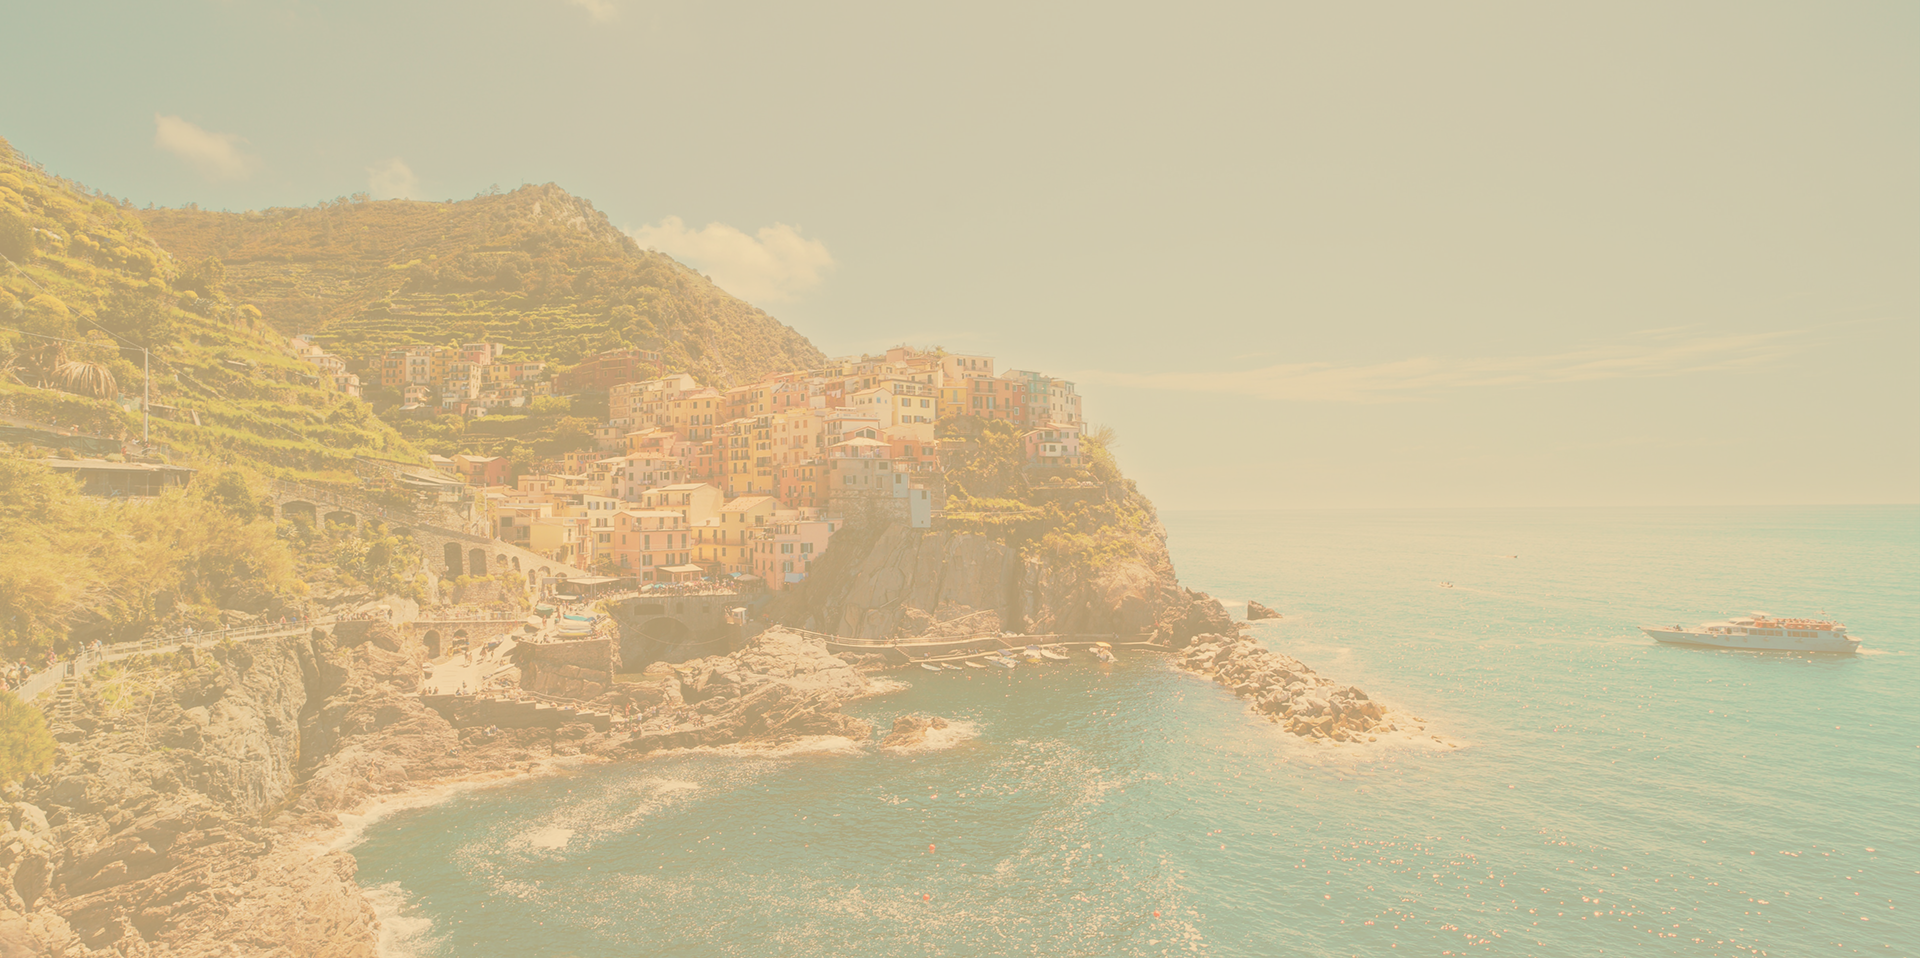
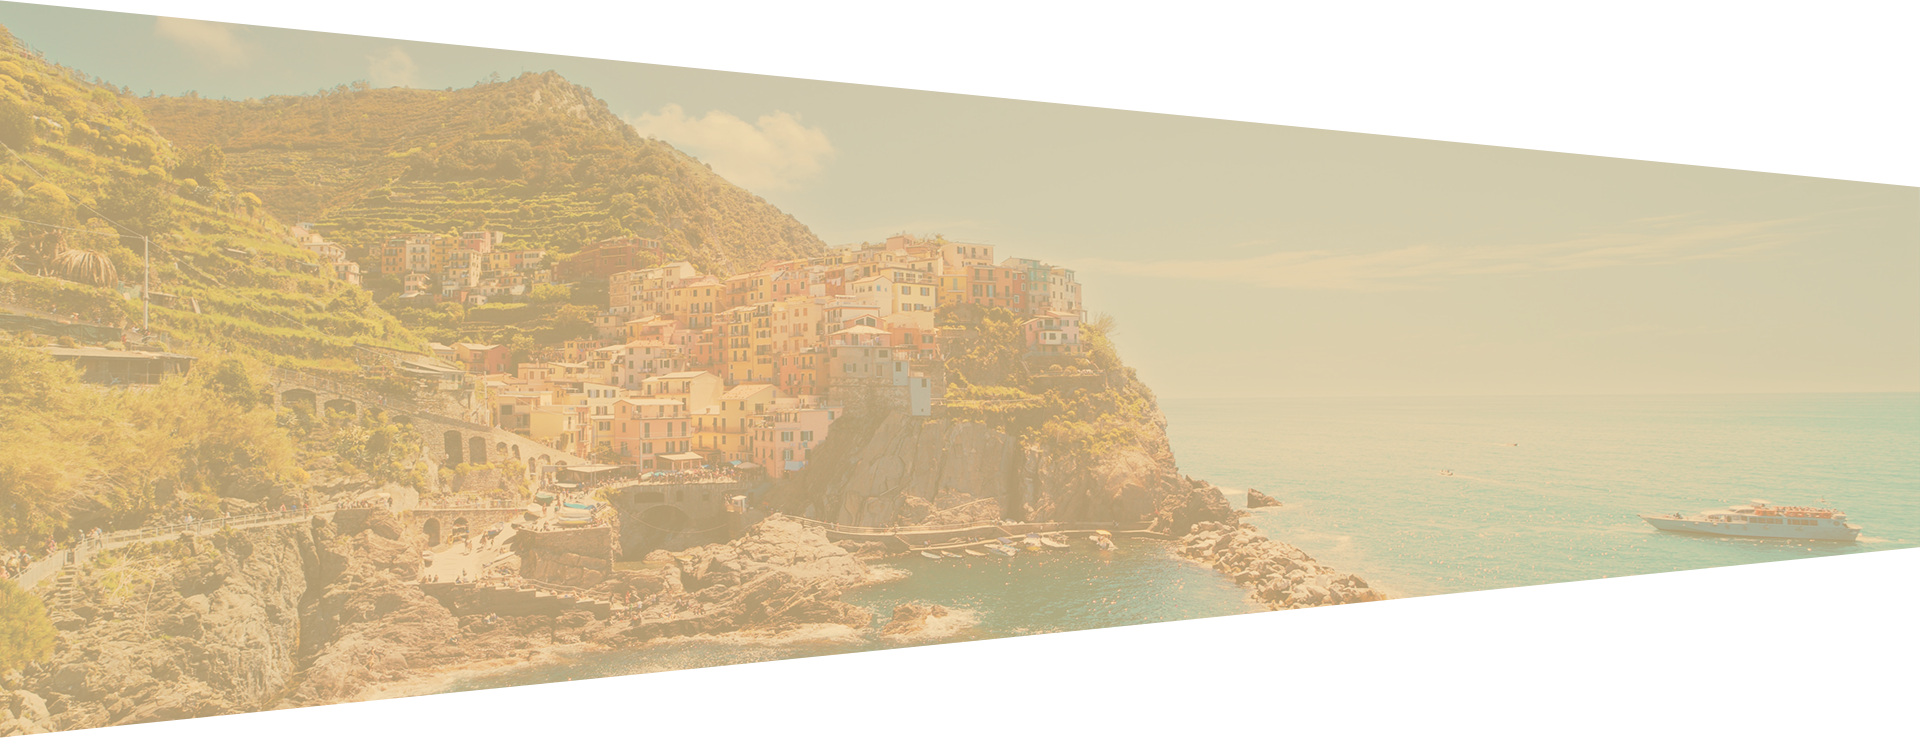
Aggiornata immagine
impaginazione sistemata con altezze in vh

diff --git a/index.html b/index.html
@@ -51,24 +51,26 @@
 
     <!-- Immagine e scritta di copertina -->
     <div class="copertina cont">
-        <a href="#ancora">
-            <div class="testi">
-                <div class="sottotitolo">Scopri la magia delle</div>
-                <div class="titolo">Cinque Terre</div>
 
+        <div class="testi">
+            <div class="sottotitolo">Scopri la magia delle</div>
+            <div class="titolo">Cinque Terre</div>
 
+            <a href="#ancora">
                 <i class="fas fa-chevron-circle-down icon"></i>
-        </a>
+            </a>
 
-    </div>
+        </div>
 
 
-    <img src="immagini/copertine/copertinaHome.jpg" class="cont" />
+        <img src="immagini/copertine/copertinaHome.jpg" class="cont" />
 
     </div>
 
     <!-- Numeri con didascalia -->
     <div class="cont">
+        <a id="ancora"></a>
+
         <div class="contFlex schedeNumeri">
             <div class="schedaNumero">
                 <span class="numero">618</span>
@@ -84,8 +86,7 @@
                 <span class="numero">120</span>
                 Chilometri di sentieri serpeggianti fra vigne e rocce
             </div>
-
-            <a name="ancora"></a>
+            
         </div>
     </div>
 

diff --git a/index.css b/index.css
@@ -25,11 +25,11 @@
     display: flex;
     align-items: center;
 
-    height: 50vh;
+    height: 70vh;
 }
 
 .sitoUnesco .contFlex {
-    margin: 25vh 20%;
+    margin: 0 20%; /*25vh*/
     justify-content: space-between;
     text-align: left;
 
@@ -45,14 +45,14 @@
 }
 
 .sitoUnesco img {
-    clip-path: polygon(0 0, 0 100%, 100% 70%, 100% 30%);
+    /*clip-path: polygon(0 0, 0 100%, 100% 70%, 100% 30%);*/
 
     position: absolute;
     top:0;
     z-index: -2;
 
     max-width: 100X;
-    min-height: 50vh;
+    min-height: 70vh;
     Object-fit: cover;
 }
 
@@ -63,3 +63,4 @@
 
     background-color: rgba(250, 217, 158, 60%);
 }
+

diff --git a/style.css b/style.css
@@ -213,7 +213,8 @@ ul li ul li {
      position: relative;
      text-align: center;
  
-     padding: 20vh 0;
+     padding-top: 20vh;
+     min-height: 85vh;
  }
  
  .copertina .icon{
